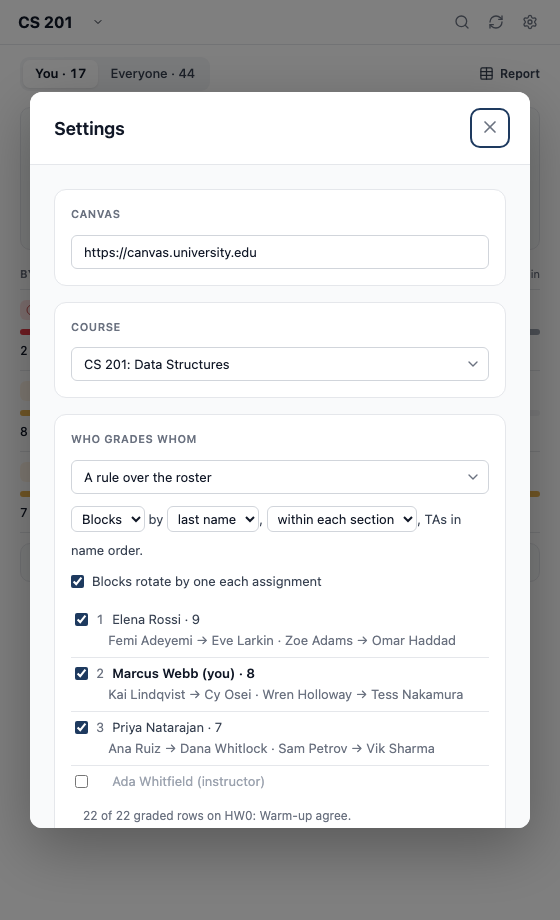
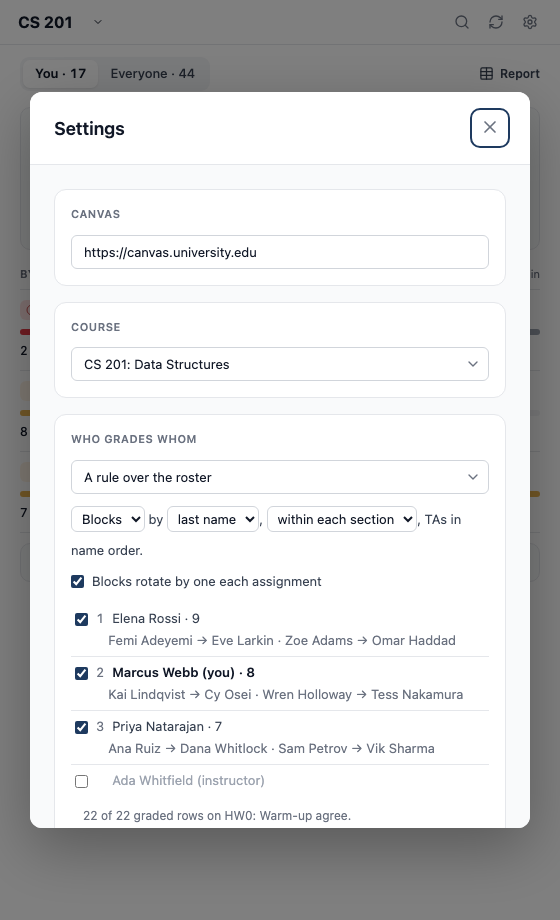
Grading screenshots retaken

Changed region(s): [[0.1518, 0.6696, 0.4554, 0.7913], [0.1821, 0.8217, 0.4554, 0.8522], [0.1518, 0.7, 0.1821, 0.7304]]

diff --git a/docs/index.html b/docs/index.html
@@ -542,7 +542,7 @@
                 <p class="sub">Fictional course, invented students: nothing in these captures comes from a real Canvas course.</p>
 
                 <div class="shot-feature">
-                    <div class="shot-media"><img src="ss-grading-queue.png?v=12" width="560" height="806" alt="The Kandue for Graders queue: a You · 17 / Everyone · 44 switch beside the Report link, 17 to grade in a ring split into 2 at 7+ days since due and 15 under 7 days with a Next to grade button naming Rosa Mendes, then rows for HW0, HW1 and Lab 2, each led by its longest wait (11 days, in red, for HW0), with a bar and a line such as &quot;2 of your 8 to grade · 6 graded&quot;, and Not due yet and Done buttons under the list" loading="lazy" decoding="async"></div>
+                    <div class="shot-media"><img src="ss-grading-queue.png?v=13" width="560" height="806" alt="The Kandue for Graders queue: a You · 17 / Everyone · 44 switch beside the Report link, 17 to grade in a ring split into 2 at 7+ days since due and 15 under 7 days with a Next to grade button naming Rosa Mendes, then rows for HW0, HW1 and Lab 2, each led by its longest wait (11 days, in red, for HW0), with a bar and a line such as &quot;2 of your 8 to grade · 6 graded&quot;, and Not due yet and Done buttons under the list" loading="lazy" decoding="async"></div>
                     <div class="shot-copy">
                         <h4>Who is waiting on you</h4>
                         <p>Every assignment with students of yours still to grade, the longest wait at the top. Each row says how long the first of your students has waited and how many of them are still to grade, with a bar for your block.</p>
@@ -551,12 +551,12 @@
 
                 <div class="shot-grid">
                     <div class="shot">
-                        <img src="ss-grading-work.png?v=12" width="560" height="820" alt="The worklist for HW0: Warm-up: 2 of your 8 to grade over a bar, due 11 days ago, with the grader's median score against the other graders', then one row per student, Rosa Mendes and Nia Okafor marked To grade in red and the students around them scored 4 or 5 out of 5" loading="lazy" decoding="async">
+                        <img src="ss-grading-work.png?v=13" width="560" height="820" alt="The worklist for HW0: Warm-up: 2 of your 8 to grade over a bar, due 11 days ago, with the grader's median score against the other graders', then one row per student, Rosa Mendes and Nia Okafor marked To grade in red and the students around them scored 4 or 5 out of 5" loading="lazy" decoding="async">
                         <h4>The worklist for your block</h4>
                         <p>To grade, graded with the score, resubmitted, late, missing or excused, each student one click from SpeedGrader.</p>
                     </div>
                     <div class="shot">
-                        <img src="ss-grading-split.png?v=13" width="560" height="920" alt="Kandue for Graders settings showing who grades whom: three TAs with their student ranges, the signed-in grader's own block in bold, and a note that 22 of 22 graded rows match this split" loading="lazy" decoding="async">
+                        <img src="ss-grading-split.png?v=14" width="560" height="920" alt="Kandue for Graders settings showing who grades whom: three TAs with their student ranges, the signed-in grader's own block in bold, and a note that 22 of 22 graded rows match this split" loading="lazy" decoding="async">
                         <h4>Who grades whom, read back</h4>
                         <p>The split every TA is actually using, checked against every grade already entered, with the disagreements named.</p>
                     </div>
